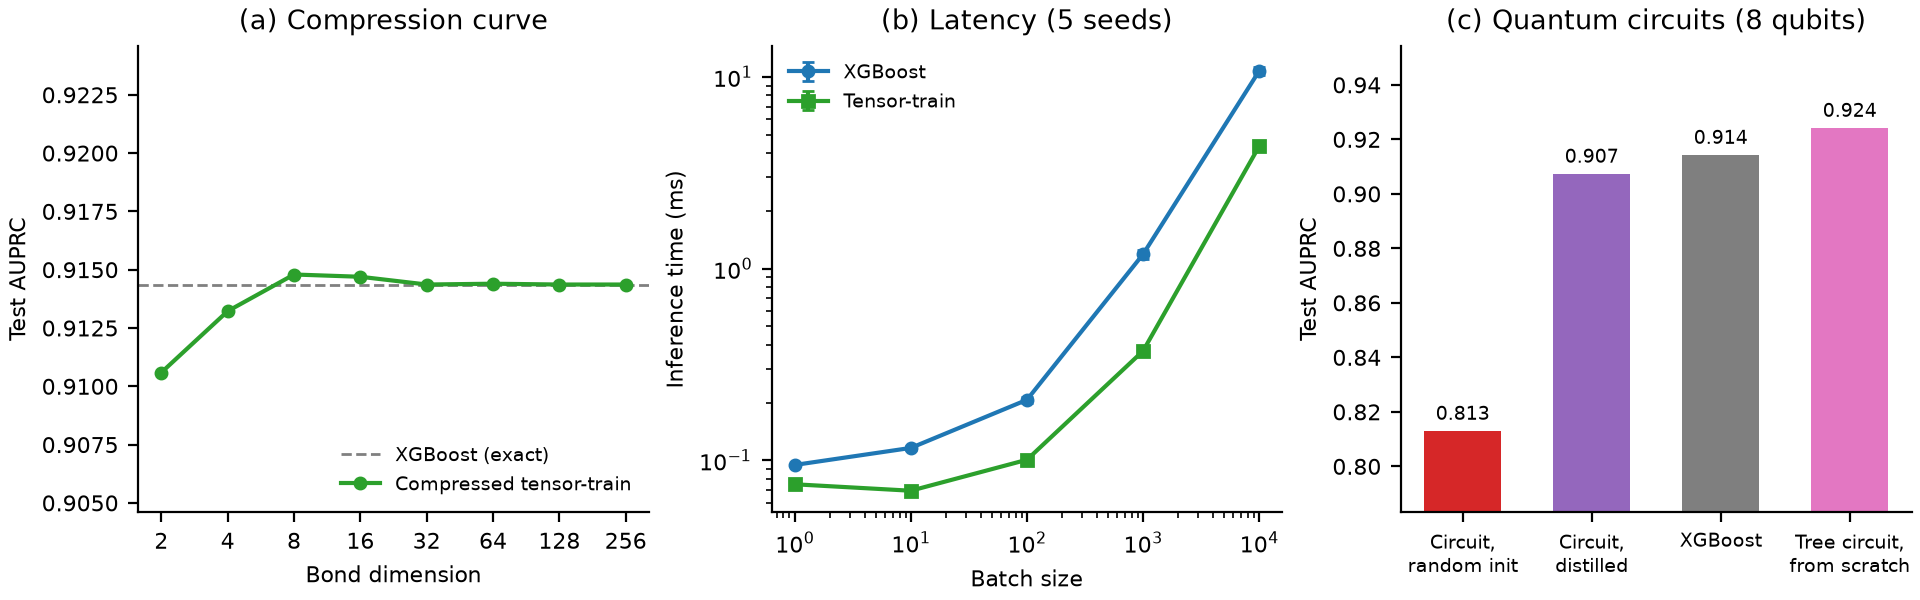
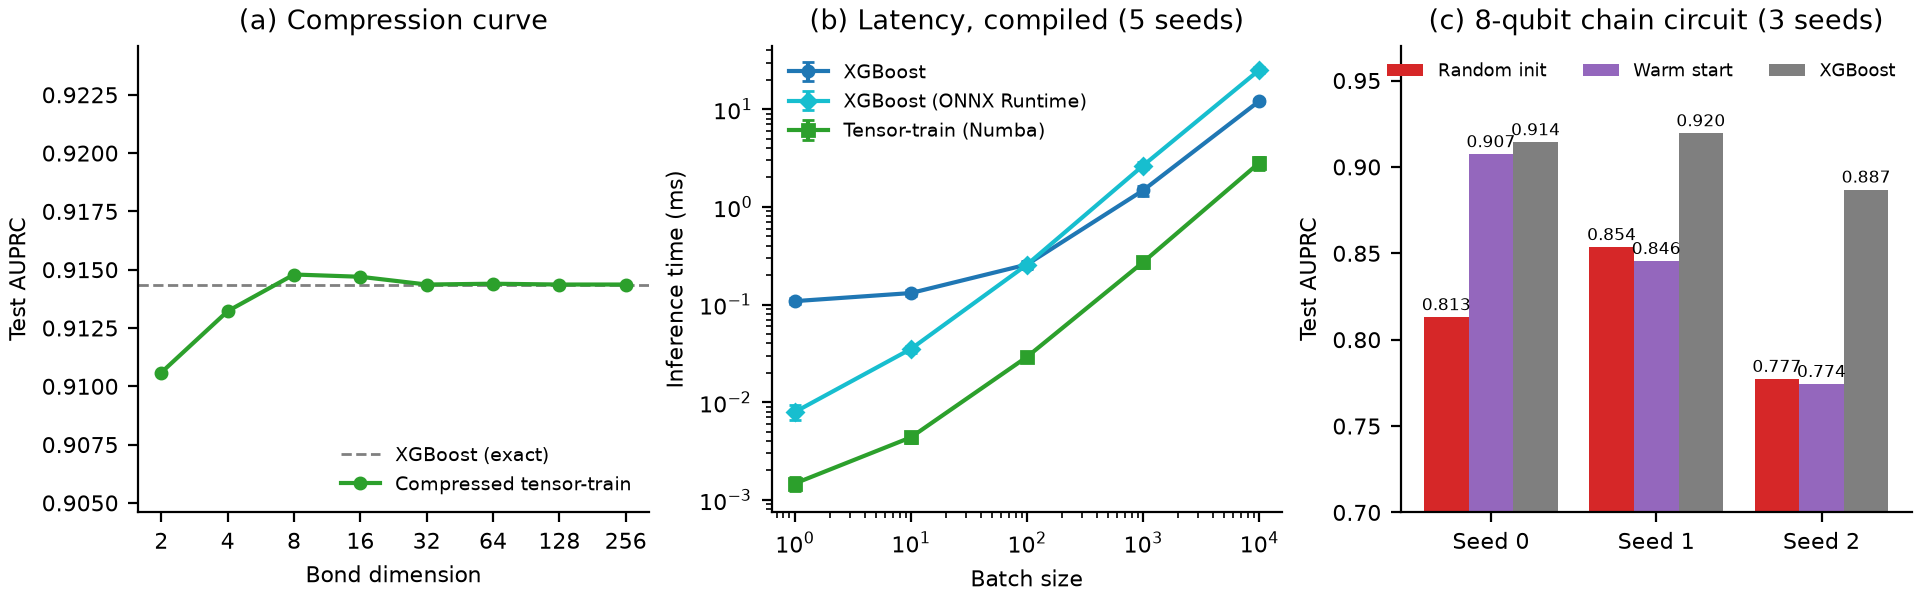
Coherence fixes: circuit mean 0.842, exactness within 1e-5, results figure regenerated
The results figure now shows compiled latency (panel b) and the circuit over
three seeds (panel c), as the README and the proposal do; README wording
aligned with the proposal (scorer or explainer; latency no longer listed
among the properties other bank models inherit).

diff --git a/scripts/make_figures.py b/scripts/make_figures.py
@@ -1,8 +1,8 @@
 """Regenerates the results figure from the committed JSON tables, without
 re-running any experiment: (a) compression curve from
-results/tables/distillation_compression.json, (b) latency from
-results/tables/latency_multiseed.json, (c) circuit results from
-results/tables/circuit_distillation.json and circuit_topologies.json.
+results/tables/distillation_compression.json, (b) compiled latency from
+results/tables/latency_compiled.json, (c) circuit results over three seeds from
+results/tables/circuit_distillation{,_seed1,_seed2}.json.
 
 Usage:
     uv run python scripts/make_figures.py
@@ -44,34 +44,35 @@ def main() -> None:
     ax.set_xlabel("Bond dimension"); ax.set_ylabel("Test AUPRC"); ax.set_title("(a) Compression curve")
     ax.legend(frameon=False, fontsize=7, loc="lower right")
 
-    lat = load("latency_multiseed.json")
+    lat = load("latency_compiled.json")
     ax = axes[1]
     if lat:
         agg = lat["aggregated"]
         batch = sorted(int(b) for b in agg)
-        for key, label, color, marker in (("xgboost_ms", "XGBoost", "#1f77b4", "o"),
-                                          ("chain_tt_gather_ms", "Tensor-train", "#2ca02c", "s")):
+        for key, label, color, marker in (("xgboost", "XGBoost", "#1f77b4", "o"),
+                                          ("xgboost_onnx", "XGBoost (ONNX Runtime)", "#17becf", "D"),
+                                          ("tt_numba", "Tensor-train (Numba)", "#2ca02c", "s")):
             m = [agg[str(b)][key]["mean"] for b in batch]; s = [agg[str(b)][key]["std"] for b in batch]
             ax.errorbar(batch, m, yerr=s, fmt=marker + "-", color=color, ms=4, capsize=2, label=label)
         ax.set_xscale("log"); ax.set_yscale("log")
     ax.set_xlabel("Batch size"); ax.set_ylabel("Inference time (ms)")
-    ax.set_title(f"(b) Latency ({lat['n_seeds'] if lat else '?'} seeds)"); ax.legend(frameon=False, fontsize=7)
+    ax.set_title(f"(b) Latency, compiled ({lat['n_seeds'] if lat else '?'} seeds)"); ax.legend(frameon=False, fontsize=7)
 
-    dist = load("circuit_distillation.json"); topo = load("circuit_topologies.json")
+    runs = [r for r in (load(n) for n in ("circuit_distillation.json", "circuit_distillation_seed1.json",
+                                          "circuit_distillation_seed2.json")) if r]
     ax = axes[2]
-    labels, vals, cols = [], [], []
-    if dist:
-        labels += ["Circuit,\nrandom init", "Circuit,\ndistilled", "XGBoost"]
-        vals += [dist["from_scratch"]["test_auprc"], dist["distilled_finetuned"]["test_auprc"], dist["xgboost_test_auprc"]]
-        cols += ["#d62728", "#9467bd", "#7f7f7f"]
-    if topo and "tree" in topo.get("circuits", {}):
-        labels.append("Tree circuit,\nfrom scratch"); vals.append(topo["circuits"]["tree"]["test_via_braket"]["auprc"]); cols.append("#e377c2")
-    if vals:
-        bars = ax.bar(labels, vals, color=cols, width=0.6)
-        for b, v in zip(bars, vals):
-            ax.text(b.get_x() + b.get_width() / 2, v + 0.004, f"{v:.3f}", ha="center", fontsize=7)
-        ax.set_ylim(min(vals) - 0.03, max(vals) + 0.03)
-    ax.set_ylabel("Test AUPRC"); ax.set_title("(c) Quantum circuits (8 qubits)"); ax.tick_params(axis="x", labelsize=7)
+    if runs:
+        x = np.arange(len(runs)); w = 0.27
+        for i, (key, label, color) in enumerate((("from_scratch", "Random init", "#d62728"),
+                                                 ("distilled_finetuned", "Warm start", "#9467bd"),
+                                                 ("xgboost", "XGBoost", "#7f7f7f"))):
+            vals = [r["xgboost_test_auprc"] if key == "xgboost" else r[key]["test_auprc"] for r in runs]
+            bars = ax.bar(x + (i - 1) * w, vals, w, color=color, label=label)
+            for b, v in zip(bars, vals):
+                ax.text(b.get_x() + b.get_width() / 2, v + 0.004, f"{v:.3f}", ha="center", fontsize=6)
+        ax.set_xticks(x); ax.set_xticklabels([f"Seed {i}" for i in range(len(runs))])
+        ax.set_ylim(0.70, 0.97); ax.legend(frameon=False, fontsize=6.5, ncol=3, loc="upper right")
+    ax.set_ylabel("Test AUPRC"); ax.set_title(f"(c) 8-qubit chain circuit ({len(runs)} seeds)")
 
     fig.savefig(OUT / "results.png", dpi=200)
     print("wrote", OUT / "results.png")

diff --git a/README.md b/README.md
@@ -14,8 +14,8 @@ thresholds turns that sum into a matrix product state (tensor-train) with one te
 per leaf. The conversion is lossless (checked to floating-point precision against
 XGBoost, Random Forest and CatBoost), nothing is trained from a random start, and the
 decision boundary a risk team has already validated is preserved exactly. The
-tensor-train is then a deployable scorer in its own right, and a teacher for a small
-quantum circuit.
+tensor-train then serves as an exact explainer of the ensemble's decisions, as a fast
+scorer where a compact model is enough, and as a teacher for a small quantum circuit.
 
 ```
 trained tree ensemble ──exact──▶ tensor-train ──SVD──▶ compressed tensor-train
@@ -46,7 +46,7 @@ is exactness) one test.
 | Missing fields, exact expectation | +0.025 / +0.065 / +0.087 / +0.159 AUPRC over XGBoost's native handling at 10 / 20 / 30 / 50 % missing | `04_missing_fields.py` | `missing_fields.json` | `test_tree_to_tt.py` |
 | Exact decision-boundary sensitivity | for the 15 transactions nearest the threshold, 2 flip under a single-bin move, both correcting a model error | `05_boundary_sensitivity.py` | `boundary_sensitivity.json` | `test_boundary_sensitivity.py` |
 | Global interpretability (entropy) | real three-model stack 0.47–0.60 nats, between "dominated by one model" (0.14–0.32) and "genuine blend" (0.69–0.71) | `06_entropy_calibration.py` | `entropy_calibration.json` | `test_stack_entropy.py` |
-| Warm-started quantum circuit | 3 seeds: chain circuit from scratch 0.815 ± 0.031, warm-started 0.843 ± 0.054, XGBoost 0.907; the warm start helps on seed 0 (0.813 → 0.907) and not on seeds 1–2 | `07_circuit_distillation.py` | `circuit_distillation.json` | `test_circuit_distillation.py` |
+| Warm-started quantum circuit | 3 seeds: chain circuit from scratch 0.815 ± 0.031, warm-started 0.842 ± 0.054, XGBoost 0.907; the warm start helps on seed 0 (0.813 → 0.907) and not on seeds 1–2 | `07_circuit_distillation.py` | `circuit_distillation.json` | `test_circuit_distillation.py` |
 | Circuit topology | tree-topology circuit trained from scratch: 0.924, depth 10 vs 22 for the chain | `08_circuit_topologies.py` | `circuit_topologies.json` | `test_braket_tree_circuit.py` |
 
 ![results](figures/results.png)
@@ -59,7 +59,7 @@ ensemble's own bin edges: one rank-1 term per leaf, merged as a direct sum
 reduced 8-feature sample used throughout (60 fraud + 940 legitimate training rows,
 20 + 380 validation and test rows, fraud enriched to 6 % / 5 % so that small-sample
 metrics are not noise) the 300-tree model has 1,522 leaves and the converted
-tensor-train reproduces its margin to ~1e-6. `tt_merge.svd_compress` then
+tensor-train reproduces its margin to within 1e-5. `tt_merge.svd_compress` then
 canonicalises and truncates each bond (Frobenius-optimal, with the discarded weight
 reported per bond): bond dimension 4 already recovers XGBoost's accuracy and the
 curve is flat from 8. On a larger, properly powered setting (2,000 training rows,
@@ -206,7 +206,7 @@ selection and sample; `QDISTILL_SEED=1`, `2`):
 
 The warm start lifts the circuit on seed 0 and does not on seeds 1 and 2,
 where it ends slightly below the circuit trained from scratch; the mean gain
-(0.843 against 0.815) is carried by one seed. The teacher matches XGBoost on
+(0.842 against 0.815) is carried by one seed. The teacher matches XGBoost on
 every seed, so the loss happens in pretraining or fine-tuning; the script
 does not yet log the pretraining fit, which is the next diagnostic. `08_circuit_topologies.py` trains chain and
 tree-topology circuits from scratch: the tree circuit (entangling blocks in a
@@ -296,7 +296,7 @@ characterisation of where exact merging stops being tractable.
 
 Nothing in the construction is specific to fraud: any tree ensemble a bank already
 runs, in anti-money-laundering alerting, credit decisioning or collections, converts
-the same way and inherits the same latency, explanation and warm-start properties.
+the same way and inherits the same explanation and warm-start properties.
 
 ## Data and attribution
 

diff --git a/CLAUDE.md b/CLAUDE.md
@@ -27,7 +27,7 @@ Each script writes a JSON table to `results/tables/`; committed tables regenerat
 - Hierarchical merge: identical AUPRC to the one-step merge on the 2,052-leaf model with 28x less core memory.
 - KernelSHAP instability grows with feature count (6% at 8 features vs 47% at 29); TT attribution is exact and deterministic.
 - Missing fields: +0.025/+0.065/+0.087/+0.159 AUPRC at 10/20/30/50% missing.
-- Circuit (3 seeds, chain, 8 qubits): warm start helps on 1 of 3 seeds (0.813 → 0.907 on seed 0; none on seeds 1–2); mean 0.843 ± 0.054 vs 0.815 ± 0.031 from scratch; tree topology 0.924 at depth 10 vs 22.
+- Circuit (3 seeds, chain, 8 qubits): warm start helps on 1 of 3 seeds (0.813 → 0.907 on seed 0; none on seeds 1–2); mean 0.842 ± 0.054 vs 0.815 ± 0.031 from scratch; tree topology 0.924 at depth 10 vs 22.
 
 ## Conventions
 - Python via **uv**; `tensorkrowch==1.1.6` pinned.
